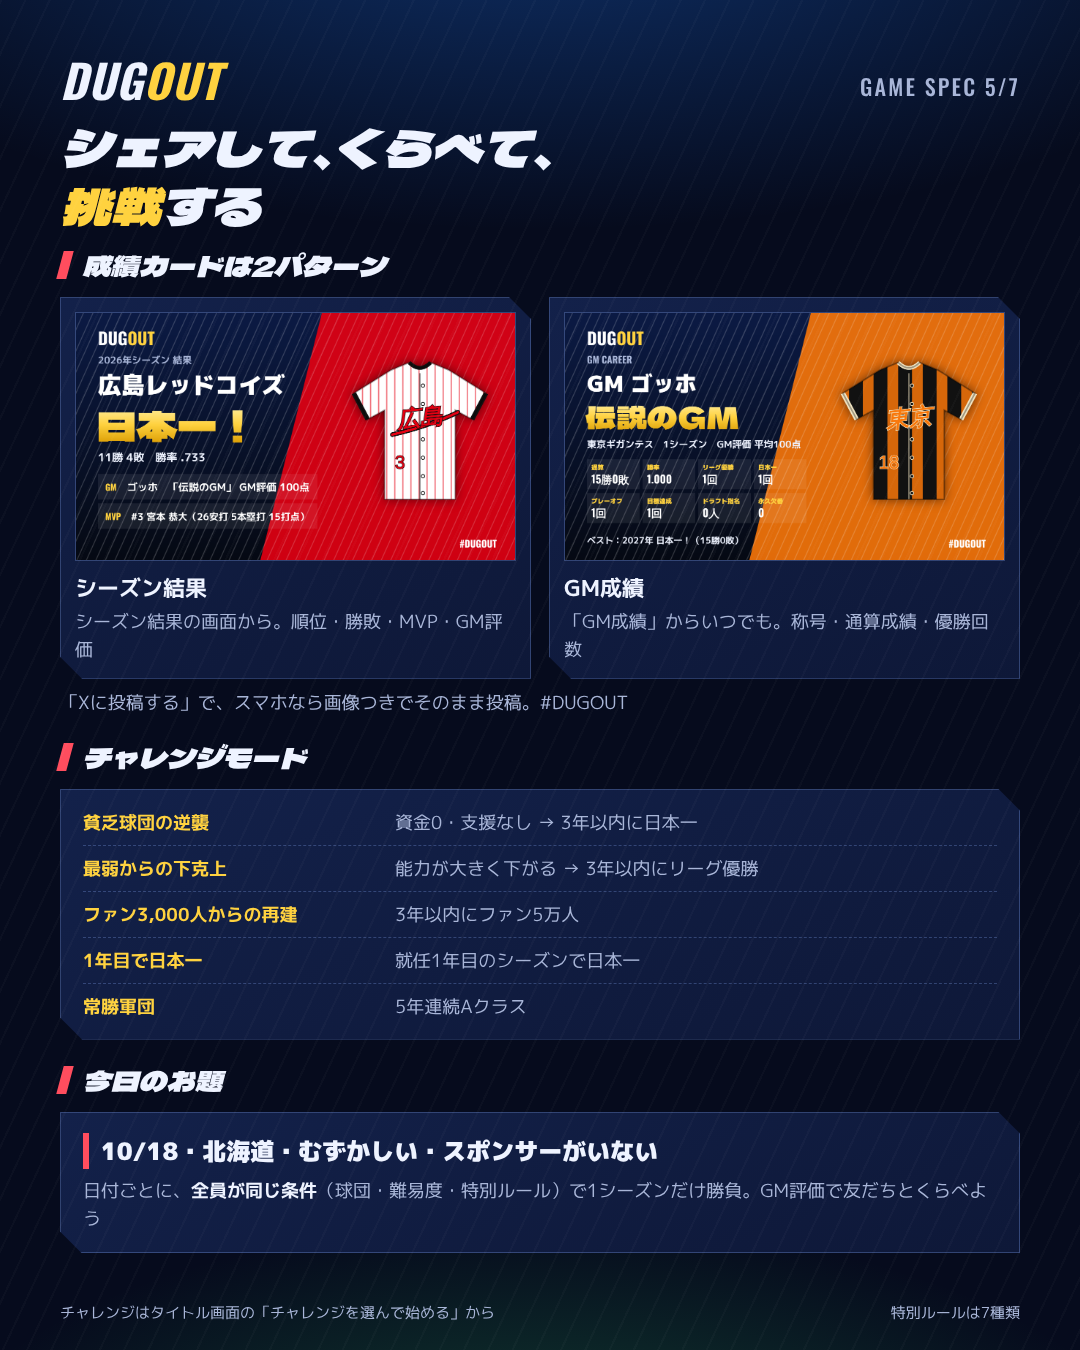
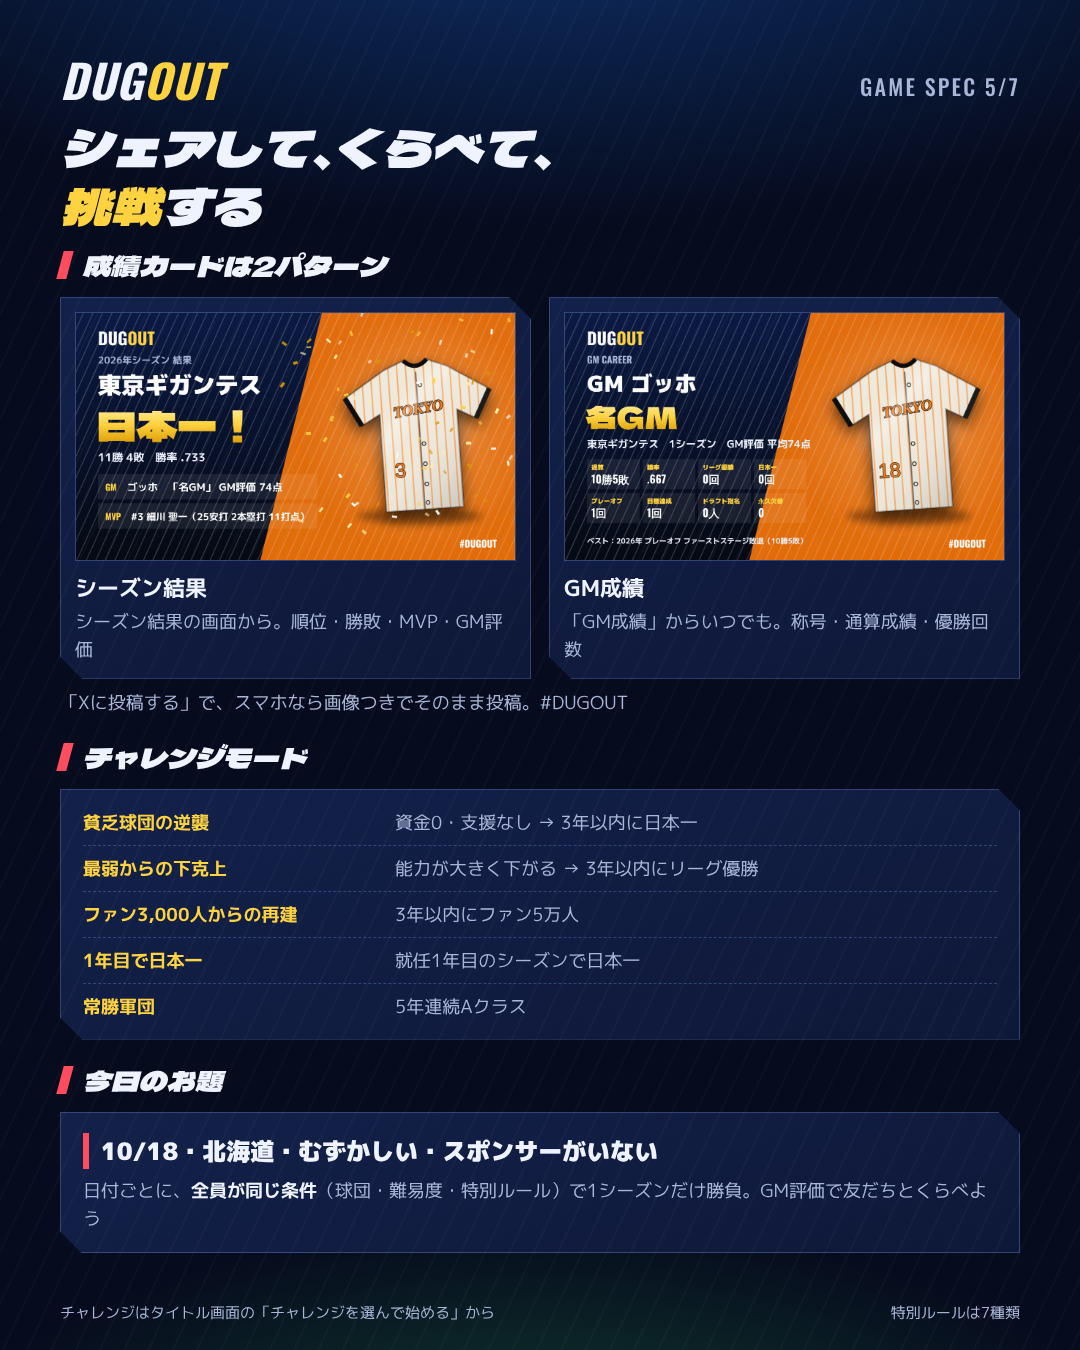
docs: 仕様書第2.6版の図解を新しいユニフォーム・成績カードに更新
Claude-Session: https://claude.ai/code/session_0137xRnGeaETaip5rWBMLh5V

Changed region(s): [[0.0917, 0.2178, 0.4889, 0.4356], [0.7639, 0.2489, 0.9167, 0.4044], [0.55, 0.28, 0.7333, 0.4044]]

diff --git a/仕様書.md b/仕様書.md
@@ -801,7 +801,7 @@
 | 第2.3版 | 2026-10-18 | ホーム画面に追加（アイコン・全画面表示・追加の案内）。タイトル画面に大きな入口、はじめの設定を短く（GM名を先頭に、しまえる欄、スマホは開始ボタンを固定）、スマホの球団選びを1列に |
 | 第2.4版 | 2026-10-18 | ホーム画面に追加の案内を、iPhone／Android／PCのタブ切りかえにし、iPhone・Androidは3枚の絵で手順を示すように |
 | 第2.5版 | 2026-10-19 | ホーム画面に追加を独立した章（26章）にまとめ、端末ごとの動き・手順の表を追加。図解に7枚目（`仕様書_7.png`）を追加 |
-| 第2.6版 | 2026-10-19 | 成績カードのユニフォームを、スポットライト・光沢・影つきに。優勝・日本一は紙吹雪。胸の文字のはじめを球団のローマ字にし、胸の高さ・大きさに |
+| 第2.6版 | 2026-10-19 | 成績カードのユニフォームを、スポットライト・光沢・影つきに。優勝・日本一は紙吹雪。胸の文字のはじめを球団のローマ字にし、胸の高さ・大きさに。図解4・5枚目のユニフォームと成績カードを新しい絵に。SNS用の画像（`SNS/`）を追加 |
 | 第2.1版 | 2026-10-18 | 今日のお題が毎日ばらばらに変わるように（日付をよく混ぜて種にし、前の日と同じ球団・特別ルールを避ける）。作者表記（© 2026 ゴッホ）・ファンメイド作品・データの扱いのおことわりを追加。就任1年目のGM成績カードの文言を調整 |
 | 第2版 | 2026-10-18 | 図解を6枚に作り直し。成績カード（シェア。シーズン結果／GM成績の2パターン）・はじめてのガイド・選手のドラマ（MVP・成長ストーリー・引退試合・永久欠番・宿敵）・チャレンジモード・今日のお題を追加 |
 | 第1版 | 2026-10-17 | 仕様書を作成。図解（`仕様書_1.png`〜`仕様書_4.png`）を追加 |
